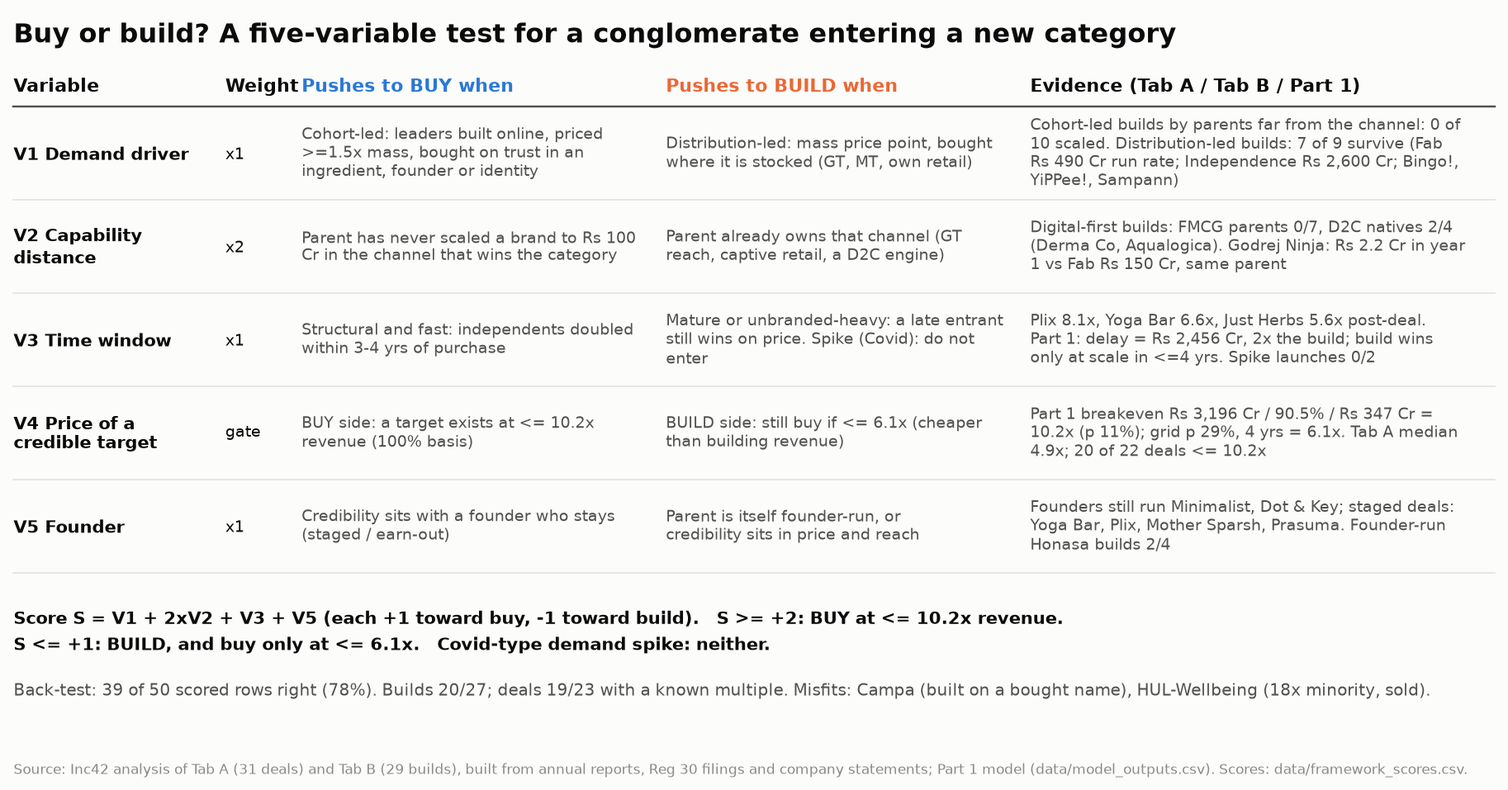
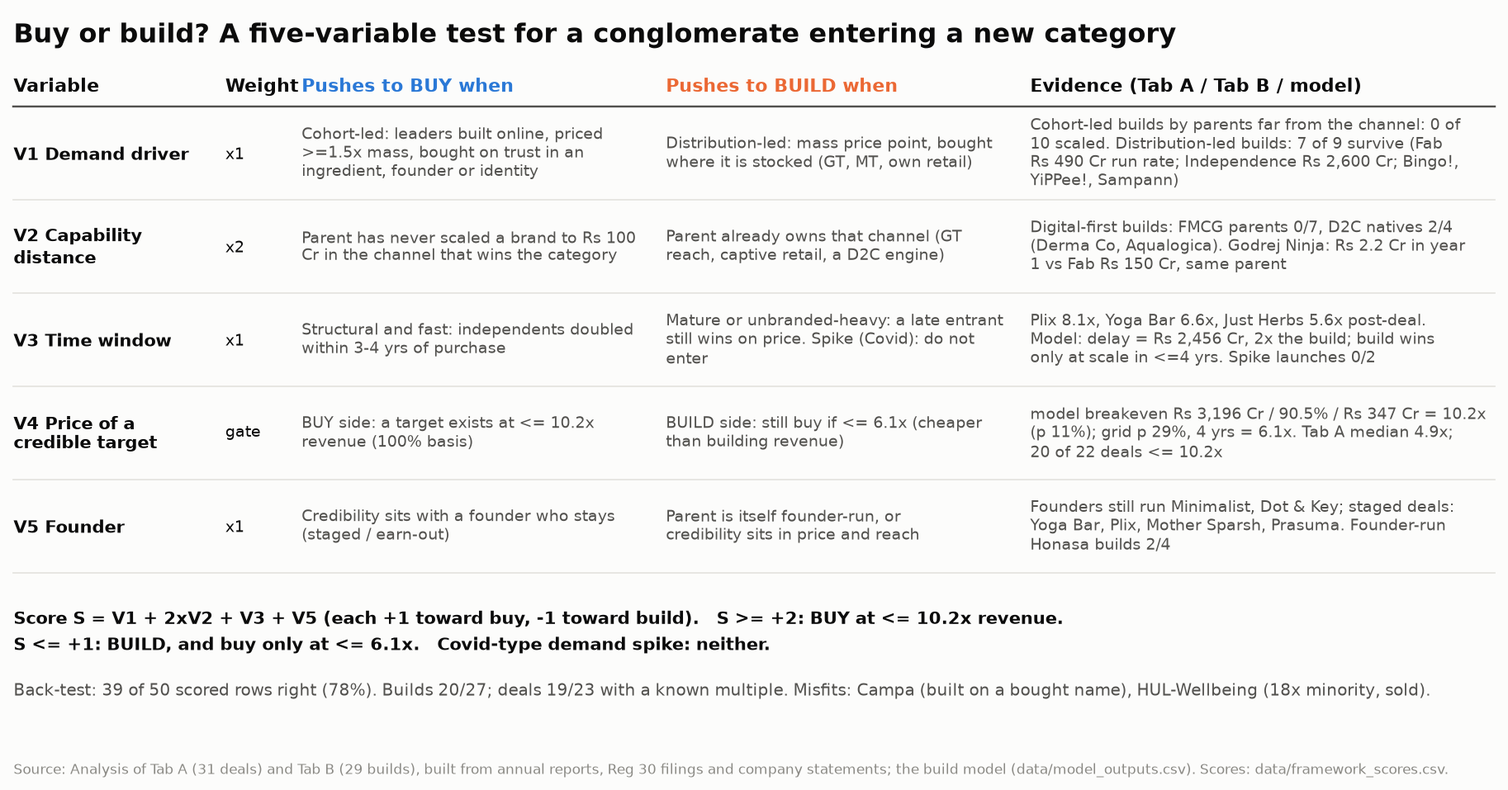
Neutral labels in scripts and data; rebuild report screenshots and charts

diff --git a/scripts/tab_a_data.py b/scripts/tab_a_data.py
@@ -31,7 +31,7 @@ ROWS = [
          notes=("Announced 2025-01-22 (S007 p.1: 'secondary buyout for a cash consideration of INR 2670 crores at a pre-money Enterprise Valuation of INR 2955 crores (subject to adjustments as set out in the SPSA) and a primary infusion of INR 45 crores'); "
                 "CCI approval 2025-03-17; completed 2025-04-21 for total cash consideration 'INR 2,706,44,95,728' incl. primary (S002 p.1) = INR 2,706.45 Cr (press rounds down to 2,706.44). consideration_inr_cr uses the completion figure. "
                 "Turnover S007 p.3: 'FY 2021-22: INR 103 Crores / FY 2022-23: INR 184 Crores / FY 2023-24: INR 347 Crores'; ARR >INR 500 Cr (Dec-24 quarter, unaudited). "
-                "D5 check: '~347 Cr turnover' CONFIRMED against the filing; filing calls it 'turnover', Entrackr calls it 'revenue' (same number). "
+                "Revenue-basis check: '~347 Cr turnover' CONFIRMED against the filing; filing calls it 'turnover', Entrackr calls it 'revenue' (same number). "
                 "Remaining 9.5% 'with eventual acquisition'; press release: 'path to acquire the balance stake in two years'. Multiple on EV basis = 2955/347 = 8.5x. See conflicts.md (2,670 vs 2,706.44 vs 2,955).")),
     dict(parent="Hindustan Unilever Ltd", brand="OZiva (Zywie Ventures Pvt Ltd)", category="Wellness-Nutrition&Supplements",
          year_start=2023, consideration_inr_cr=264.28, stake_pct=51, deal_structure="outright_majority",
@@ -45,7 +45,7 @@ ROWS = [
          notes=("Announced 2022-12-08 (S008): agreement to acquire 100% in 2 tranches; 'Total consideration for acquisition of the first tranche: INR 264.28 Crores'; 51% first tranche, 'Balance 49.00%... after the expiry of a period of 3 years'. "
                 "Completed first tranche 2023-01-11 (S005), so year_start=2023 (announced 2022). Turnover S008 p.2: 'turnover from operations of INR 124.17 Crores for the financial year 2021-2022'. "
                 "Second tranche approved 2026-02-12 (S009) and completed 2026-02-13 (S003) at INR 824 Cr for 49%: implied 100% value ~INR 1,682 Cr vs ~INR 518 Cr at first tranche (264.28/0.51, post-money incl. primary). "
-                "deal_structure = outright_majority (51% at first completion; contracted top-up noted, not reclassified per D6).")),
+                "deal_structure = outright_majority (51% at first completion; contracted top-up noted, not reclassified per the what-vs-how rule).")),
     dict(parent="Hindustan Unilever Ltd", brand="Wellbeing Nutrition (Nutritionalab Pvt Ltd)", category="Wellness-Nutrition&Supplements",
          year_start=2023, consideration_inr_cr=70.00, stake_pct=19.8, deal_structure="minority_no_path",
          revenue_inr_cr=19.40, revenue_fy="FY22", revenue_basis="turnover as stated in Reg 30 annexure; not labelled ops vs total income",
@@ -57,7 +57,7 @@ ROWS = [
          source_ids="S001;S012;S009;S011", confidence="High",
          notes=("Announced 2022-12-08 (S001 p.3: 'INR 70.00 Crores for the acquisition of proposed stake'; 'agreed to acquire 19.8% shareholding'); completed 2023-01-04 (S012). "
                 "Turnover S001 p.3: FY22 19.40 / FY21 5.33 / FY20 2.14 (INR Cr). Accounted as a joint venture under the equity method (S009). "
-                "deal_structure = minority_no_path (added in D12): a 19.8% stake with no disclosed option or schedule to increase; minority_with_path needs rights to increase, and none were found. "
+                "deal_structure = minority_no_path (non-controlling stake rule): a 19.8% stake with no disclosed option or schedule to increase; minority_with_path needs rights to increase, and none were found. "
                 "Arguably an investment, not an acquisition; kept as a core row because it shows the exit route (bought 70, sold ~307 = ~4.4x in ~3 years).")),
     # ---------------- ITC ----------------
     dict(parent="ITC Ltd", brand="Yoga Bar (Sproutlife Foods Pvt Ltd)", category="Food-Snacks&Bars",
@@ -98,7 +98,7 @@ ROWS = [
          source_ids="S020;S022;S033", confidence="High",
          notes=("Announced 2025-04-17 (S020): 'Consideration of up to Rs 472.50 crores on a cash-free debt-free basis... comprising Rs 400 crores payable upfront at Closing and up to Rs 72.50 crores payable in the next 24 months'. Presentation: 'Additional Founders Consideration of up to Rs. 72.5 cr... basis pre-agreed criteria'; founder Raj Seelam stays 2 years. "
                 "Completed 2025-06-13 (S022). consideration_inr_cr = the maximum 472.5 (upfront 400 + earn-out); upfront-only multiple = 400/306.1 = 1.31x. "
-                "Turnover S020 p.4 (consolidated): '2023-24 Rs 306.1 crores 2022-23 Rs 327.3 crores 2021-22 Rs 326.7 crores' - flat-to-declining before the deal. Earn-out not counted as FOUNDER_TEAM: price is 1.5x revenue, so people are not the primary asset (D6).")),
+                "Turnover S020 p.4 (consolidated): '2023-24 Rs 306.1 crores 2022-23 Rs 327.3 crores 2021-22 Rs 326.7 crores' - flat-to-declining before the deal. Earn-out not counted as FOUNDER_TEAM: price is 1.5x revenue, so people are not the primary asset (what-vs-how rule).")),
     dict(parent="ITC Ltd", brand="Prasuma (Ample Foods Pvt Ltd)", category="Food-Frozen&ReadyToCook",
          year_start=2025, consideration_inr_cr=131, stake_pct=43.75, deal_structure="staged_to_control",
          revenue_inr_cr=116, revenue_fy="FY24", revenue_basis="revenue_from_operations (AFPL consolidated, sales to third parties incl. sales to MSPL)",
@@ -389,7 +389,7 @@ ROWS = [
          status_evidence="S110: 'Shares / voting rights acquired... 65,48,935 51.00% 74,00,29,655 Cash'; open offer 'at a price of INR 115.50 per Offer Share'",
          source_url="https://www.bseindia.com/xml-data/corpfiling/AttachHis/fea041df-8810-409c-94b9-e89ad604024e.pdf",
          source_ids="S110;S111", confidence="High",
-         notes=("SPECIAL CASE: acquirer is Reliance Consumer Products Ltd (RCPL), a wholly owned subsidiary of Reliance Retail Ventures, counted under listed parent Reliance Industries Ltd (D4). RIL itself filed no Reg 30 for this size of deal; T1 evidence is the TARGET's SEBI SAST filings (Lotus is BSE-listed). "
+         notes=("SPECIAL CASE: acquirer is Reliance Consumer Products Ltd (RCPL), a wholly owned subsidiary of Reliance Retail Ventures, counted under listed parent Reliance Industries Ltd (listed-parent rule). RIL itself filed no Reg 30 for this size of deal; T1 evidence is the TARGET's SEBI SAST filings (Lotus is BSE-listed). "
                 "SPA 2022-12-29: 51% from the promoters 'at a price of INR 113.00 per Sale Share, for a total consideration of INR 74,00,29,655' (S110); plus preferential issue of redeemable preference shares to RCPL (S111). Completion of the SPA ~May 2023 (Reg 29 disclosures 2023-05-27); exact date UNCONFIRMED. "
                 "Revenue S111: 'Income from Operations' INR Cr - 9M FY23 37.11 (unaudited), FY22 86.97, FY21 47.87, FY20 69.89. Category 'Other' = confectionery (no bucket in the taxonomy).")),
     dict(parent="Reliance Industries Ltd (via Reliance Consumer Products Ltd)", brand="Campa (brand bought from Pure Drinks Group)", category="Beverages",
@@ -414,7 +414,7 @@ ROWS = [
          source_url="https://www.afaqs.com/news/brands/reliance-consumer-to-acquire-50-stake-in-sasyo-hajoori-beverages",
          source_ids="S114;S115", confidence="Medium",
          notes=("SPECIAL CASE (RCPL under RIL). Announced Jan 2023 (S114, S115, both carrying RCPL's release): 'will acquire 50% equity stake in Gujarat-headquartered Sosyo Hajoori Beverages Private Limited'. "
-                "JOINT VENTURE: a 50:50 JV, confirmed by both sources - S114: 'Speaking on the joint venture with RCPL'; 'The existing promoters, Hajoori family, will continue to own the remaining stake in SHBPL'. ""deal_structure = minority_no_path (D12 covers non-controlling stakes of 50% or less, including 50:50 JVs): no disclosed route for RCPL to take control. ""consideration UNCONFIRMED (not disclosed); revenue UNCONFIRMED. "
+                "JOINT VENTURE: a 50:50 JV, confirmed by both sources - S114: 'Speaking on the joint venture with RCPL'; 'The existing promoters, Hajoori family, will continue to own the remaining stake in SHBPL'. ""deal_structure = minority_no_path (the minority_no_path rule covers non-controlling stakes of 50% or less, including 50:50 JVs): no disclosed route for RCPL to take control. ""consideration UNCONFIRMED (not disclosed); revenue UNCONFIRMED. "
                 "Medium = two T3 sources that agree (both rely on the same company release). Completion date UNCONFIRMED.")),
 ]
 

diff --git a/scripts/build_memo.py b/scripts/build_memo.py
@@ -1,6 +1,6 @@
-"""Build output/BuyOrBuild_Report.pdf (reportlab; WeasyPrint needs GTK, see project rule D11).
+"""Build output/BuyOrBuild_Report.pdf (reportlab; WeasyPrint needs GTK).
 
-Five A4 pages: P1 answer + headline exhibit, P2 Part 1 detail, P3 Part 3 framework, P4 Part 4 call,
+Five A4 pages: P1 answer + headline exhibit, P2 model detail, P3 framework, P4 recommendation call,
 P5 story pitch + AI usage note + method box. Model numbers are read from data/model_outputs.csv so the memo
 cannot drift from the model; text figures come from notes/*.md.
 
@@ -226,7 +226,7 @@ story += [table(yr, [128] + [yw] * len(YRS), bold_rows=(7, 8), right_cols=tuple(
 story.append(PageBreak())
 
 # ================================================= PAGE 2 =====================================================
-story += part_head("Part 1", "Price the alternative: what building Minimalist would have cost")
+story += part_head("Model", "Price the alternative: what building Minimalist would have cost")
 story.append(P(
     "The model builds the brand year by year on Honasa's and Minimalist's cost ratios, divides the burn by the odds "
     "of success, adds the cost of delay and compares the total with the full cost of the deal."))
@@ -310,15 +310,15 @@ story.append(P(
 story.append(PageBreak())
 
 # ================================================= PAGE 3 =====================================================
-story += part_head("Part 3", "The framework: buy the cohort, build the channel")
+story += part_head("Framework", "The framework: buy the cohort, build the channel")
 story.append(P(
     "<b>Buy when a category is won on a cohort's trust and the parent is far from the channel that wins it. "
     "Build when it is won on price and reach the parent already owns.</b> Capability distance gets double weight "
     "because it is the variable that splits the record: FMCG parents' digital-first builds went <b>0 for 7</b>, while "
-    "D2C-native parents went <b>2 for 4</b> in the same categories. Price is a gate, set by Part 1."))
+    "D2C-native parents went <b>2 for 4</b> in the same categories. Price is a gate, set by the model."))
 story.append(exhibit(6, "Five variables, one score: S ≥ +2 means buy at up to 10.2× revenue; anything lower means build"))
 fw = [
-    ["Variable (weight)", "Pushes to BUY (+1)", "Pushes to BUILD (−1)", "Evidence (Tab A / Tab B / Part 1)"],
+    ["Variable (weight)", "Pushes to BUY (+1)", "Pushes to BUILD (−1)", "Evidence (Tab A / Tab B / model)"],
     ["<b>V1 Demand driver</b> (×1)", "Cohort-led: leaders built online, priced ≥1.5× mass, bought on trust in an ingredient, founder or identity",
      "Distribution-led: mass price point, bought where it is stocked", "Cohort-led builds by parents far from the channel: 0 of 10 scaled. "
      "Distribution-led builds: 7 of 9 survive"],
@@ -326,7 +326,7 @@ fw = [
      "Parent owns that channel (GT reach, captive retail, a D2C engine)",
      "0/7 vs 2/4. GCPL's Godrej Ninja: ₹2.22 Cr in FY26 (S073); the same parent's Fab: ₹150 Cr in year 1 (S161)"],
     ["<b>V3 Time window</b> (×1)", "Independents doubled within 3–4 years", "Mature or mostly unbranded category",
-     "Plix 8.1×, Yoga Bar 6.6× growth after their deals. Delay costs ₹2,456 Cr, about 2× the build (Part 1)"],
+     "Plix 8.1×, Yoga Bar 6.6× growth after their deals. Delay costs ₹2,456 Cr, about 2× the build (model)"],
     ["<b>V4 Price</b> (gate)", "Buy if a credible target is available at ≤10.2× revenue (100% basis)",
      "Buy only at ≤6.1× (cheaper than building)", "10.2× = ₹3,196 Cr ÷ 90.5% ÷ ₹347 Cr; 6.1× = the grid at p 29%, 4 yrs. Tab A median 4.9×; 20 of 22 priced deals at or below 10.2×"],
     ["<b>V5 Founder</b> (×1)", "Credibility sits with a founder who stays (staged deal, earn-out)",
@@ -374,7 +374,7 @@ story.append(P("<b>Known blind spot:</b> incumbent concentration. Distribution-l
 story.append(PageBreak())
 
 # ================================================= PAGE 4 =====================================================
-story += part_head("Part 4", "Make the call: Godrej Consumer Products in pet care")
+story += part_head("Recommendation", "Make the call: Godrej Consumer Products in pet care")
 story.append(box([P("<b>BUY.</b> GCPL should buy the pet-parent channel and cohort, and keep building the food in-house. "
                     "Lead target: Heads Up For Tails, on a staged path to control.", ANSWER)], border=ACCENT))
 story.append(Spacer(1, 6))
@@ -412,7 +412,7 @@ story.append(P(
     "loss-making at first and still worked, so GCPL should give its build time."))
 story.append(P(
     "<b>My response.</b> On a comparable clock the gap is about 70× (₹2.2 Cr against ₹150 Cr), which is too large to be "
-    "a matter of timing. Part 1 shows that what makes building expensive is the delay, not the build cost. In a category "
+    "a matter of timing. The model shows that what makes building expensive is the delay, not the build cost. In a category "
     "compounding at 25–50% a year, every year of waiting raises the price of each target above. GCPL should keep building "
     "the food, and buy the shelf and the trust."))
 story.append(P(
@@ -456,8 +456,8 @@ ai += bullets([
     "A live store and Wayback captures show it is still sold.",
 ], st("bul_box", fontSize=8.6, leading=11.2, leftIndent=8, spaceAfter=1.5))
 ai.append(P("<b>Left blank, not estimated:</b> consideration for 6 of 31 deals; revenue for 18 of 29 builds.", BOX))
-ai.append(P("<b>Time</b> (Claude run time): setup ~16 min · Tab A 42 · Tab B 18 · verification 12+ · Part 1 10 · "
-            "Parts 3–4 12 · workbook 6. My own elapsed time was about 7h40.", BOX))
+ai.append(P("<b>Time</b> (Claude run time): setup ~16 min · Tab A 42 · Tab B 18 · verification 12+ · model 10 · "
+            "framework and recommendation 12 · workbook 6. My own elapsed time was about 7h40.", BOX))
 
 link = (f"<a href='{SHEET}' color='#C8102E'><u>{SHEET}</u></a>" if SHEET != PLACEHOLDER
         else "<font color='#c0392b'><b>[Google Sheet link to be added]</b></font>")

diff --git a/scripts/tab_b_data.py b/scripts/tab_b_data.py
@@ -51,7 +51,7 @@ ROWS = [
          vocab_rationale="HUL's own ayurvedic masterbrand: an attempt to build an ayurveda franchise in-house rather than buy one (contrast Indulekha, bought 2016).",
          status_today="Niche",
          status_evidence=(f"P2: in AR FY20 ({ar('HUL',20)} p.13: 'The master brand LEVER Ayush continued its momentum in the focused market - South India') and FY21 ({ar('HUL',21)} p.14: 'LEVER Ayush, the master brand maintained focus on its key market in southern India'); "
-                          "0 mentions FY22-FY26. P3: leverayush.com gives no response (SSL error); HUL brand pages are JS-rendered (D8) - current availability UNCONFIRMED (S207)."),
+                          "0 mentions FY22-FY26. P3: leverayush.com gives no response (SSL error); HUL brand pages are JS-rendered - current availability UNCONFIRMED (S207)."),
          source_ids=f"{ar('HUL',20)};{ar('HUL',21)};S207", confidence="Low",
          notes=("Launch year conflict: 2001 vs 2002 in secondary write-ups (T4 case studies via search; HUL primary not found) - see conflicts.md. "
                 "Relaunch: Dec 2016 with ~20 mass-priced products (Rs 30-130) in TN, Kerala, AP, Telangana, Karnataka, a response to Patanjali (T4 case-study sources via search, not saved as evidence). "
@@ -121,7 +121,7 @@ ROWS = [
          source_ids=f"{ar('Honasa',26)};S120;{ar('Honasa',24)};S121;S125", confidence="High",
          notes=(f"Launch-month conflict: AR FY24 ({ar('Honasa',24)} p.12) 'Since The Derma Co's launch in March 2020' vs AR FY26 ({ar('Honasa',26)} p.13) 'The Derma Co, launched in February 2020' - year 2020 either way; see conflicts.md. "
                 "Break-even: 'achieving break-even in all quarters of FY24' (S121 p.2). "
-                "LISTING CAVEAT: built while Honasa was unlisted (IPO Nov 2023); valid for Tab B because Honasa is listed now and discloses brand-level ARR, but it was not a listed-company build decision (cf. D13 for Tab A).")),
+                "LISTING CAVEAT: built while Honasa was unlisted (IPO Nov 2023); valid for Tab B because Honasa is listed now and discloses brand-level ARR, but it was not a listed-company build decision (cf. the listed-at-deal-time rule for Tab A).")),
     dict(parent=HON, brand="Aqualogica", category="BPC-Skincare", year_start=2021, what_was_acquired="COHORT_EQUITY",
          vocab_rationale="Hydration-led, fruit-plus-actives skincare for younger, climate-specific needs: a sharper sub-cohort than Mamaearth or The Derma Co served.",
          status_today="Scaled", revenue_inr_cr=200, revenue_fy="FY26",
@@ -287,20 +287,20 @@ ROWS = [
          status_evidence=(f"P1: RIL AR FY26 ({ar('RIL',26)} p.47): 'Independence brand achieved ~Rs 2,600 crore sales'; AR FY25 ({ar('RIL',25)} p.34): 'Flagship brands such as Campa and Independence are gaining momentum'. P2: RIL AR FY23-FY26."),
          source_ids=f"S116;{ar('RIL',23)};{ar('RIL',25)};{ar('RIL',26)}", source_url=url("S116"), confidence="Medium",
          notes=("Launched 2022-12-15 in Gujarat (S116 p.1: 'Reliance Consumer Products Ltd., the FMCG arm and a fully owned subsidiary of Reliance Retail Ventures Ltd., today launched its indigenous made-for-India consumer packaged goods brand, INDEPENDENCE in Gujarat'). "
-                "Parent per D4: RCPL counted under RIL (listed). CAVEAT: sold heavily through the group's own retail (Reliance Retail/JioMart), a captive channel no other Tab B parent has - scale is not comparable like-for-like. Medium (single T1 figure, basis unstated).")),
+                "Parent per the listed-parent rule: RCPL counted under RIL (listed). CAVEAT: sold heavily through the group's own retail (Reliance Retail/JioMart), a captive channel no other Tab B parent has - scale is not comparable like-for-like. Medium (single T1 figure, basis unstated).")),
     dict(parent=RIL, brand="Campa (HYBRID: dormant name bought 2022, brand rebuilt in-house)", category="Beverages", year_start=2023,
          what_was_acquired="CATEGORY_ENTRY",
          vocab_rationale="Reliance had no beverage brand; it bought only a dormant trademark (recall, no revenue or team) and built the business itself - entry by build on a bought name.",
          status_today="Scaled", revenue_inr_cr=4700, revenue_fy="FY26", revenue_basis="gross sales ('Rs 4,700+ crore in gross sales'); not net revenue",
          status_evidence=(f"P1: RIL AR FY26 ({ar('RIL',26)} p.47): 'Campa achieved Rs 4,700+ crore in gross sales in FY 2025-26. In March 2026, it became India's fourth-largest carbonated soft drinks brand'; AR FY25 ({ar('RIL',25)} p.34): '>10% market share in sparkling beverage category in select states'. P2: RIL AR FY23-FY26."),
          source_ids=f"{ar('RIL',23)};{ar('RIL',25)};{ar('RIL',26)};S112", confidence="Medium",
-         notes=(f"HYBRID - excluded from the pure-build base rate; discussed in Part 3. Trademark bought from Pure Drinks Group in 2022 (~Rs 22 Cr per PTI citing unnamed sources, S112, T3; also Tab A row). "
+         notes=(f"HYBRID - excluded from the pure-build base rate; discussed in the framework. Trademark bought from Pure Drinks Group in 2022 (~Rs 22 Cr per PTI citing unnamed sources, S112, T3; also Tab A row). "
                 f"Relaunch 2023 (RIL AR FY23 {ar('RIL',23)} p.77: 'The FMCG business launched several products during the year including Independence brand and the iconic beverage brand, Campa'); relaunch month Mar 2023 per recall (C056) - month UNCONFIRMED by primary source. "
                 "Beverage investment of up to Rs 8,000 Cr (S113, T4 - not relied on). Same captive-retail caveat as Independence.")),
 ]
 
 
-# base_rate_flag: which rows count toward the Part 1 build base rate (data/base_rates.csv). Default 'included'.
+# base_rate_flag: which rows count toward the model's build base rate (data/base_rates.csv). Default 'included'.
 BASE_RATE_FLAG = {
     "Godrej Fab": "excluded_out_of_scope",      # home care (liquid detergent)
     "Veggie Clean": "excluded_out_of_scope",    # home hygiene (produce wash); parent called it 'tactical'

diff --git a/scripts/framework.py b/scripts/framework.py
@@ -1,8 +1,8 @@
-"""Part 3: score every Tab A / Tab B row against the buy-vs-build framework and draw the matrix.
+"""Framework: score every Tab A / Tab B row against the buy-vs-build framework and draw the matrix.
 
 Score S = V1 + 2*V2 + V3 + V5 (V3 = 'spike' is a gate: do not enter). V4 (price) is a gate, not a score.
-  S >= 2  -> BUY side : buy a target at <= 10.2x revenue (Part 1 breakeven, p = 11%)
-  S <= 1  -> BUILD side: build; buying is still fine at <= 6.1x (Part 1 grid, p = 29%, T = 4 yrs)
+  S >= 2  -> BUY side : buy a target at <= 10.2x revenue (model breakeven, p = 11%)
+  S <= 1  -> BUILD side: build; buying is still fine at <= 6.1x (model grid, p = 29%, T = 4 yrs)
 Hit rules
   Build rows: BUY side predicts the build fails (Withdrawn/Niche); BUILD side predicts it survives (Scaled/Stable).
               Spike gate predicts failure. Unclear rows are not scored.
@@ -131,11 +131,11 @@ def draw(hit_line):
         ("V3 Time window", "x1",
          "Structural and fast: independents doubled within 3-4 yrs of purchase",
          "Mature or unbranded-heavy: a late entrant still wins on price. Spike (Covid): do not enter",
-         "Plix 8.1x, Yoga Bar 6.6x, Just Herbs 5.6x post-deal. Part 1: delay = Rs 2,456 Cr, 2x the build; build wins only at scale in <=4 yrs. Spike launches 0/2"),
+         "Plix 8.1x, Yoga Bar 6.6x, Just Herbs 5.6x post-deal. Model: delay = Rs 2,456 Cr, 2x the build; build wins only at scale in <=4 yrs. Spike launches 0/2"),
         ("V4 Price of a credible target", "gate",
          "BUY side: a target exists at <= 10.2x revenue (100% basis)",
          "BUILD side: still buy if <= 6.1x (cheaper than building revenue)",
-         "Part 1 breakeven Rs 3,196 Cr / 90.5% / Rs 347 Cr = 10.2x (p 11%); grid p 29%, 4 yrs = 6.1x. Tab A median 4.9x; 20 of 22 deals <= 10.2x"),
+         "model breakeven Rs 3,196 Cr / 90.5% / Rs 347 Cr = 10.2x (p 11%); grid p 29%, 4 yrs = 6.1x. Tab A median 4.9x; 20 of 22 deals <= 10.2x"),
         ("V5 Founder", "x1",
          "Credibility sits with a founder who stays (staged / earn-out)",
          "Parent is itself founder-run, or credibility sits in price and reach",
@@ -148,7 +148,7 @@ def draw(hit_line):
     top, hdr_h, row_h = 0.865, 0.05, 0.118
     ax.text(0.08, 0.955, "Buy or build? A five-variable test for a conglomerate entering a new category",
             fontsize=10.5, fontweight="bold", color=INK, va="center")
-    for x, w, h, c in zip(xs, W, ["Variable", "Weight", "Pushes to BUY when", "Pushes to BUILD when", "Evidence (Tab A / Tab B / Part 1)"],
+    for x, w, h, c in zip(xs, W, ["Variable", "Weight", "Pushes to BUY when", "Pushes to BUILD when", "Evidence (Tab A / Tab B / model)"],
                           [INK, INK, BUY, BUILD, INK]):
         ax.text(x + 0.08, top + hdr_h / 2, h, fontsize=7.2, fontweight="bold", color=c, va="center")
     ax.plot([0.08, sum(W) - 0.08], [top, top], color=INK2, lw=0.8)
@@ -165,7 +165,7 @@ def draw(hit_line):
     ax.text(0.08, yb, rule, fontsize=6.9, color=INK, fontweight="bold", va="center", linespacing=1.5)
     ax.text(0.08, yb - 0.075, hit_line, fontsize=6.5, color=INK2, va="center")
     ax.text(0.08, 0.025, "Source: Analysis of Tab A (31 deals) and Tab B (29 builds), built from annual reports, Reg 30 filings and "
-            "company statements; Part 1 model (data/model_outputs.csv). Scores: data/framework_scores.csv.",
+            "company statements; the build model (data/model_outputs.csv). Scores: data/framework_scores.csv.",
             fontsize=5.6, color=MUTED, va="center")
     out = ROOT / "output/charts/framework.png"
     fig.savefig(out, dpi=220, facecolor=SURFACE)

diff --git a/scripts/build_workbook.py b/scripts/build_workbook.py
@@ -373,7 +373,7 @@ def model_block(ws, top, title, P, C):
 
 
 def build_model_tab(ws, refs):
-    ws.cell(1, 1, "Part 1: what would it cost HUL to build Minimalist? Live model (all inputs on Assumptions)").font = \
+    ws.cell(1, 1, "Model: what would it cost HUL to build Minimalist? Live model (all inputs on Assumptions)").font = \
         Font(bold=True, size=13)
     ws.cell(2, 1, "₹ Cr, pre-tax, Y0 = FY26. Build revenue is conditional on success; P(success) enters via "
                   "risk-adjusted cost. Mirrors scripts/build_model.py.")
@@ -506,7 +506,7 @@ def readme_tab(ws):
          "for base rates).", None),
         ("Vocabulary: controlled values and inclusion rules for category, what_was_acquired, deal_structure, "
          "row_type, base_rate_flag.", None),
-        ("Assumptions: every Part 1 model driver (low / base / high) with source IDs; Bull/Base/Bear columns "
+        ("Assumptions: every model driver (low / base / high) with source IDs; Bull/Base/Bear columns "
          "are formulas. Edit blue cells only.", None),
         ("Build_Model: live 10-year build P&L, cost of delay and breakeven price for Base, Bull and Bear.", None),
         ("Sensitivity: live key-output summary and P(success) x years-to-scale grid; static tornado and Monte "
@@ -520,7 +520,7 @@ def readme_tab(ws):
         ("AR_Mentions: brand-mention counts in parents' annual reports, FY20-FY26 (status tracking for builds).",
          None),
         ("Base_Rates: build success rates from Tab B (Wilson 95% intervals) that feed P(success).", None),
-        ("Framework_Scores: Part 3 back-test, each row's V1-V5 scores, the predicted side and whether it was "
+        ("Framework_Scores: Framework back-test, each row's V1-V5 scores, the predicted side and whether it was "
          "right.", None),
         ("", None),
         ("Source tiers", "h"),

diff --git a/scripts/logic_checks.py b/scripts/logic_checks.py
@@ -47,13 +47,13 @@ def checks(tab, r):
         if not YEAR_MIN <= y <= YEAR_MAX:
             add("year_start", "ERROR", f"{y:.0f} outside {YEAR_MIN}-{YEAR_MAX}")
         if r["row_type"] == "core" and y < 2020:
-            add("year_start", "ERROR", f"core row with year_start {y:.0f} < 2020 (D2)")
+            add("year_start", "ERROR", f"core row with year_start {y:.0f} < 2020 (core-row rule)")
         if r["row_type"] == "calibration" and y >= 2020:
             add("year_start", "WARN", f"calibration row with year_start {y:.0f} >= 2020")
     if r["revenue_inr_cr"] and not r["revenue_fy"]:
         add("revenue_fy", "ERROR", "revenue without FY")
     if r["revenue_inr_cr"] and not r["revenue_basis"]:
-        add("revenue_basis", "ERROR", "revenue without basis (D5)")
+        add("revenue_basis", "ERROR", "revenue without basis (revenue-basis rule)")
     if buy:
         stake, cons, rev, mult = f(r["stake_pct"]), f(r["consideration_inr_cr"]), f(r["revenue_inr_cr"]), f(r["revenue_multiple"])
         if r["deal_structure"] not in VOCAB["deal_structure"]:

diff --git a/scripts/verify_quotes.py b/scripts/verify_quotes.py
@@ -156,7 +156,7 @@ def derived_check(v, sids):
 
 # Manual triage of the checks the script cannot clear (verification pass 2026-10-10). (tab, brand prefix, item prefix) -> note
 TRIAGE = {
-    ("tab_a", "Minimalist", "~347 cr turnover"): "NOT A SOURCE QUOTE: label from the D5 instruction; 347 itself PASSES the number check (S007)",
+    ("tab_a", "Minimalist", "~347 cr turnover"): "NOT A SOURCE QUOTE: label from the revenue-basis check; 347 itself PASSES the number check (S007)",
     ("tab_a", "Earth Rhythm", "nykaa acquired 51%"): "NOT A SOURCE QUOTE: the AI recall being refuted (C023)",
     ("tab_a", "Dermicool", "rs 113 crore"): "Search snippet, explicitly UNCONFIRMED in notes and not used as a value",
     ("tab_a", "Dot & Key", "~rs 46.9 cr"): "Search snippet attributed to the RHP; explicitly UNCONFIRMED, consideration left blank",

diff --git a/scripts/timelog.py b/scripts/timelog.py
@@ -2,7 +2,7 @@
 
 claude_run_time_min = minutes logged by this script; my_elapsed_time is filled in by hand.
 
-  python scripts/timelog.py start "Tab A research" --part "Part 2"
+  python scripts/timelog.py start "Tab A research" --part "Tables"
   python scripts/timelog.py end   "Tab A research" [--notes "..."]
   python scripts/timelog.py add   "Prompt 0 setup" --part Setup --start 2026-10-10T11:41 --end 2026-10-10T11:52 --notes "..."
 

diff --git a/scripts/build_model.py b/scripts/build_model.py
@@ -1,4 +1,4 @@
-"""Part 1: price the alternative. What would it cost HUL, risk-adjusted, to build a digital-first
+"""Model: price the alternative. What would it cost HUL, risk-adjusted, to build a digital-first
 active-skincare brand to Rs 347 Cr revenue, and what is the breakeven acquisition price?
 
 Reads data/assumptions.csv (low/base/high for every driver). Writes data/model_outputs.csv and charts to

diff --git a/scripts/chart_headline.py b/scripts/chart_headline.py
@@ -1,4 +1,4 @@
-"""Part 1 headline chart for the memo: build-equivalent cost vs buy all-in cost (base case, 100% basis, Rs Cr).
+"""Headline chart for the memo: build-equivalent cost vs buy all-in cost (base case, 100% basis, Rs Cr).
 Values from data/model_outputs.csv (scripts/build_model.py). Output: output/charts/p1_headline.png
 """
 from pathlib import Path

diff --git a/data/conflicts.md b/data/conflicts.md
@@ -224,7 +224,7 @@ Same format. For builds, conflicts are mostly about **dates** (launch vs relaunc
 
 ---
 
-## Part 1 model: Minimalist FY22 revenue
+## Model: Minimalist FY22 revenue
 
 | Figure | Source (tier) | What it measures |
 |---|---|---|
@@ -233,7 +233,7 @@ Same format. For builds, conflicts are mostly about **dates** (launch vs relaunc
 
 **Verdict:** Small gap, likely basis (turnover vs. revenue from operations, or standalone vs. consolidated). Not a model input; ramp uses FY24 ₹347 Cr (both agree). **Used:** ₹103 Cr (T1).
 
-## Part 1 model: cost of the remaining 9.5% of Minimalist
+## Model: cost of the remaining 9.5% of Minimalist
 
 | Figure | Source (tier) | What it measures |
 |---|---|---|
@@ -242,7 +242,7 @@ Same format. For builds, conflicts are mostly about **dates** (launch vs relaunc
 
 **Verdict:** ₹501 Cr is HUL's own accounting estimate; the pro-rata figure understates it. **Used:** base ₹501 Cr, low ₹284 Cr (assumption A20).
 
-## Part 1 model: Minimalist pro-forma FY26 revenue in HUL AR
+## Model: Minimalist pro-forma FY26 revenue in HUL AR
 
 | Figure | Source (tier) | What it measures |
 |---|---|---|
@@ -252,12 +252,12 @@ Same format. For builds, conflicts are mostly about **dates** (launch vs relaunc
 **Verdict:** ₹89 Cr not used. **Used:** ₹652 Cr, annualised ₹690 Cr (A18).
 
 
-## Heads Up For Tails revenue (Part 4)
+## Heads Up For Tails revenue (recommendation)
 - Rs 312.8 Cr FY23 revenue from operations (Entrackr, S215).
 - Rs 199.1 Cr FY24 / Rs 236.8 Cr FY25 for Earth Paws Pvt Ltd (Inc42 data page, S216) - appears to be a narrower entity scope, so not comparable with S215.
 - Rs 400 Cr ARR, company-stated run rate, Dec 2025 (Entrackr, S214) - not audited revenue.
-- Resolution: Part 4 prices HUFT on a Rs 240-400 Cr revenue band (FY25 entity figure to stated ARR); Low confidence.
+- Resolution: The recommendation prices HUFT on a Rs 240-400 Cr revenue band (FY25 entity figure to stated ARR); Low confidence.
 
-## Drools revenue and valuation (Part 4)
+## Drools revenue and valuation (recommendation)
 - Rs 714.90 Cr FY24 revenue from operations (Entrackr, S211). Rs 686.4 Cr in 9M FY25 (ICRA, S210), ~Rs 915 Cr annualised. FY25 full year UNCONFIRMED (a search summary said Rs 918 Cr; not found in any page - C071).
 - $600M valuation (June 2023, L Catterton, ~10%, S211) vs 'unicorn' (>= $1bn) claimed after Nestle's undisclosed minority stake (May 2025, S211) - a company claim, terms undisclosed.
